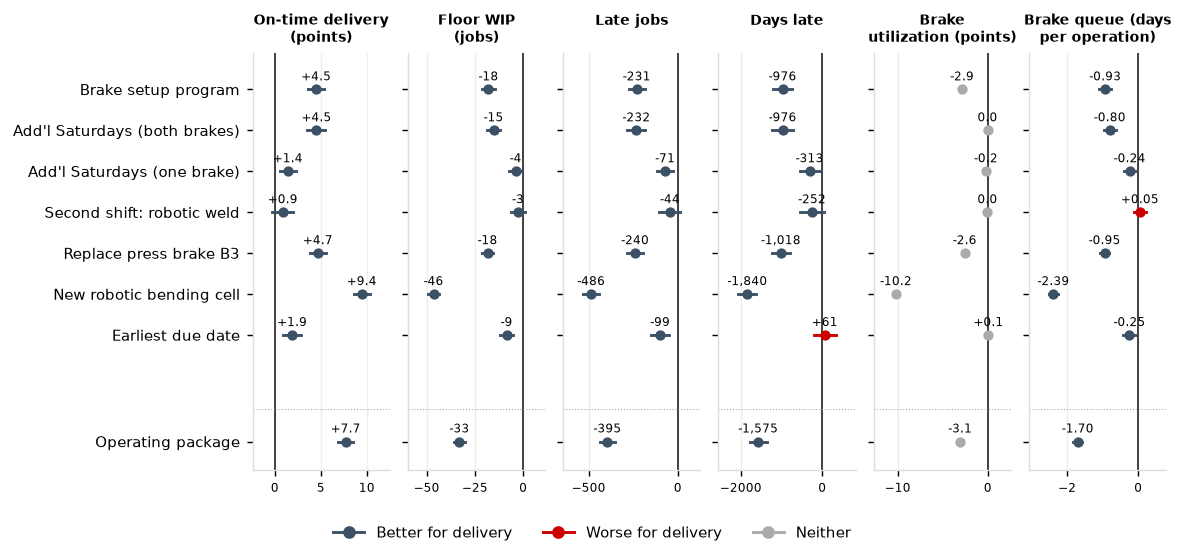
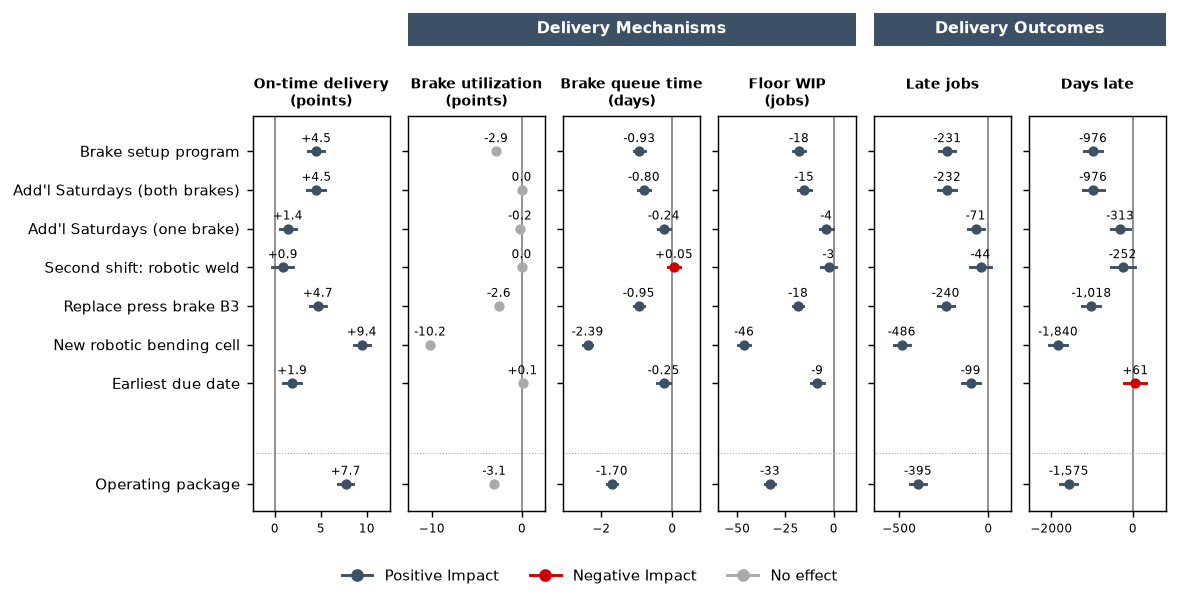
Simulation report: scenario analysis chart regrouped and retitled

Changed region(s): [[0.0, 0.1225, 1.0, 0.8883], [0.2137, 0.0, 1.0, 0.0919], [0.2748, 0.9495, 0.7328, 0.9802]]

diff --git a/docs/reports/options_tested.html b/docs/reports/options_tested.html
@@ -75,7 +75,7 @@ nav.toc a.sub { font-size: 12px; padding-left: 22px; }
 <div class='chart-title'>Change in On-time Delivery by Scenario, With 95% Intervals</div><img alt="Change in On-time Delivery by Scenario, With 95% Intervals" src="../figures/scenario_effects.png?v=0448307e">
 <h3 id='f2_1'>What each scenario changes</h3>
 <p>On-time delivery decides whether a scenario works; five other outcomes show how. The changes that add brake hours take jobs off the floor: floor WIP falls by 15 to 46 jobs under the setup program, planned Saturdays on both brakes, the tool changer and the robotic cell, and by 33 under the operating package. Late jobs fall by 231 to 486 and days late by 976 to 1,840 for those four, and by 395 and 1,575 under the package. At the brakes, the setup program, the tool changer and the cell lower utilization by 2.9, 2.6 and 10.2 points and cut queue time per operation by 0.93, 0.95 and 2.39 days; planned Saturdays on both brakes cut the queue by 0.80 days with utilization unchanged, since they add hours and remove no work. Planned Saturdays as crewed today and the weld cell second shift move each outcome less (71 and 44 fewer late jobs). Earliest due date trades days for jobs: 99 fewer late jobs in 2025 with no fewer days late (+61, -207 to +329), and 85 more days late in Q2-Q4. The laser tower clears the laser queue in the build and does not move delivery (+0.7 points, -0.4 to +1.9), since the work it cuts sooner waits at the brakes. See Appendix Tables <a href='#t4'>4</a>, <a href='#t5'>5</a> and <a href='#t6'>6</a> for additional detail.</p>
-<div class='chart-title'>What the Changes That Work Do, Change From Current Practice, 2025, With 95% Intervals</div><img alt="What the Changes That Work Do, Change From Current Practice, 2025, With 95% Intervals" src="../figures/changes_that_work.png?v=cfadccb0">
+<div class='chart-title'>Scenario Analysis: Improvements vs. Status Quo, 2025, With 95% Intervals</div><img alt="Scenario Analysis: Improvements vs. Status Quo, 2025, With 95% Intervals" src="../figures/changes_that_work.png?v=38c3be30">
 <div class='caption'>The weld cell second shift works in Q2-Q4 (+1.0 point); for 2025 as a whole its interval includes zero.</div>
 <h3 id='f2_2'>Combining the levers that work</h3>
 <p>The levers that work combine, though not fully additively. The setup program and planned Saturdays with both brakes crewed add +4.5 and +4.5 points singly and +7.7 points (+6.9 to +8.5) together, 1.3 points less than their sum, since both work on the same queue. With the operating package the shop ships 87.9% on time for 2025 and 90.8% in Q2-Q4, with 395 fewer late jobs and 1,575 fewer days late in the year. On top of the package the robotic cell adds +2.2 points (+1.7 to +2.8) and the tool changer +1.0 points (+0.5 to +1.4); the laser tower adds nothing (-0.1 points, -0.7 to +0.4). Earliest due date on top of the package brings no gain (+0.0 points, -0.4 to +0.5) and 297 more days late.</p>

diff --git a/analytics/reports/options_tested.py b/analytics/reports/options_tested.py
@@ -7,13 +7,13 @@ import re
 import numpy as np
 import pandas as pd
 from matplotlib.lines import Line2D
-from matplotlib.patches import Patch
+from matplotlib.patches import Patch, Rectangle
 
 from analytics.db import q
 from analytics.release_control import analysis as A
 from analytics.reports.combine import REPORTS
 from analytics.reports.layout import RT, Tables, block, chart, link, page, titled
-from analytics.style.style import AMBER, BRAND_BLUE, DOCS, GREEN, GREY, LIGHT_BLUE, RED, fig, save_conformed as save, table
+from analytics.style.style import AMBER, BRAND_BLUE, DOCS, GREEN, GREY, LIGHT_BLUE, RED, fig, save_conformed as save, sig, table
 
 YEAR = A.YEAR
 CURRENT, PACKAGE = A.CURRENT, A.PACKAGE
@@ -174,18 +174,21 @@ def fig_effects():
 
 WORKING = [SETUP, SAT_BOTH, SAT_ONE, WELD, CHANGER, CELL, EDD]
 # the outcomes of the chart of changes that work: measure, panel title, decimals, in points, and whether a rise is good for delivery (None: neither)
-PANELS = [("on_time_delivery", "On-time delivery" + chr(10) + "(points)", 1, True, True), ("wip_mean", "Floor WIP" + chr(10) + "(jobs)", 0, False, False),
-          ("late_jobs", "Late jobs" + chr(10), 0, False, False), ("days_late", "Days late" + chr(10), 0, False, False),
-          ("brake_utilization", "Brake" + chr(10) + "utilization (points)", 1, True, None), ("brake_queue_mean", "Brake queue (days" + chr(10) + "per operation)", 2, False, False)]
+PANELS = [("on_time_delivery", "On-time delivery" + chr(10) + "(points)", 1, True, True), ("brake_utilization", "Brake utilization" + chr(10) + "(points)", 1, True, None),
+          ("brake_queue_mean", "Brake queue time" + chr(10) + "(days)", 2, False, False), ("wip_mean", "Floor WIP" + chr(10) + "(jobs)", 0, False, False),
+          ("late_jobs", "Late jobs" + chr(10), 0, False, False), ("days_late", "Days late" + chr(10), 0, False, False)]
+# the panels under each heading: first and last, by position
+HEADS = [("Delivery Mechanisms", 1, 3), ("Delivery Outcomes", 4, 5)]
 BETTER, WORSE, NEUTRAL = BRAND_BLUE, RED, GREY
 
 
 def fig_changes():
-    f, axes = fig(h=4.3, w=9.2, ncols=len(PANELS), grid="x", sharey=True)
+    f, axes = fig(h=4.6, w=9.2, ncols=len(PANELS), grid=None, sharey=True)
     names = WORKING + [PACKAGE]
     y = [len(names) - k + 0.6 for k in range(len(WORKING))] + [0.0]              # the package set apart at the bottom
     for ax, (m, title, d, points, up_is_good) in zip(axes, PANELS):
-        ax.axvline(0, color="#333333", lw=1)
+        ax.grid(False)
+        ax.axvline(0, color="#888888", lw=1)
         ax.axhline(0.8, color=GREY, lw=0.6, ls=":")
         for yi, s in zip(y, names):
             t = [v * (100 if points else 1) for v in A.diff(s, m)]
@@ -199,12 +202,20 @@ def fig_changes():
         ax.set_title(title, fontsize=7.8)
         ax.tick_params(axis="x", labelsize=6.5)
         ax.locator_params(axis="x", nbins=3)
+        for side in ax.spines.values():
+            side.set_visible(True)
+            side.set_color("black")
+            side.set_linewidth(0.8)
     axes[0].set_yticks(y)
     axes[0].set_yticklabels(names, fontsize=8.2)
     axes[0].set_ylim(-0.7, max(y) + 0.9)
     f.legend([Line2D([], [], color=BETTER, marker="o", lw=1.6), Line2D([], [], color=WORSE, marker="o", lw=1.6), Line2D([], [], color=NEUTRAL, marker="o", lw=1.6)],
-             ["Better for delivery", "Worse for delivery", "Neither", ], frameon=False, fontsize=8.5, ncol=3, loc="lower center")
-    f.tight_layout(rect=(0, 0.06, 1, 1), w_pad=0.6)
+             ["Positive Impact", "Negative Impact", "No effect"], frameon=False, fontsize=8.5, ncol=3, loc="lower center")
+    f.tight_layout(rect=(0, 0.06, 1, 0.9), w_pad=0.6)
+    for text, a, z in HEADS:
+        x0, x1 = float(sig(axes[a].get_position().x0, 4)), float(sig(axes[z].get_position().x1, 4))
+        f.patches.append(Rectangle((x0, 0.915), x1 - x0, 0.055, transform=f.transFigure, facecolor=BRAND_BLUE, edgecolor="none"))
+        f.text((x0 + x1) / 2, 0.9425, text, ha="center", va="center", fontsize=8.6, fontweight="bold", color="white")
     return save(f, "changes_that_work", "")
 
 
@@ -638,7 +649,7 @@ def build():
              f"jobs: {n0(-edd_late[0])} fewer late jobs in {YEAR} with no fewer days late ({sg(edd_days[0], 0)}, {sg(edd_days[1], 0)} to {sg(edd_days[2], 0)}), and "
              f"{n0(chg(EDD, 'days_late', 'rest'))} more days late in {RT}. The laser tower clears the laser queue in the build and does not move delivery ({ptsb(TOWER)}), since the "
              f"work it cuts sooner waits at the brakes. {T.see('year', 'rest', 'tower')}</p>")
-    b.append(titled(fig_changes(), f"What the Changes That Work Do, Change From Current Practice, {YEAR}, With 95% Intervals"))
+    b.append(titled(fig_changes(), f"Scenario Analysis: Improvements vs. Status Quo, {YEAR}, With 95% Intervals"))
     b.append(f"<div class='caption'>The weld cell second shift works in {RT} ({sg(chg(WELD, 'on_time_delivery', 'rest') * 100)} point); for {YEAR} as a whole its interval includes "
              f"zero.</div>")
 
